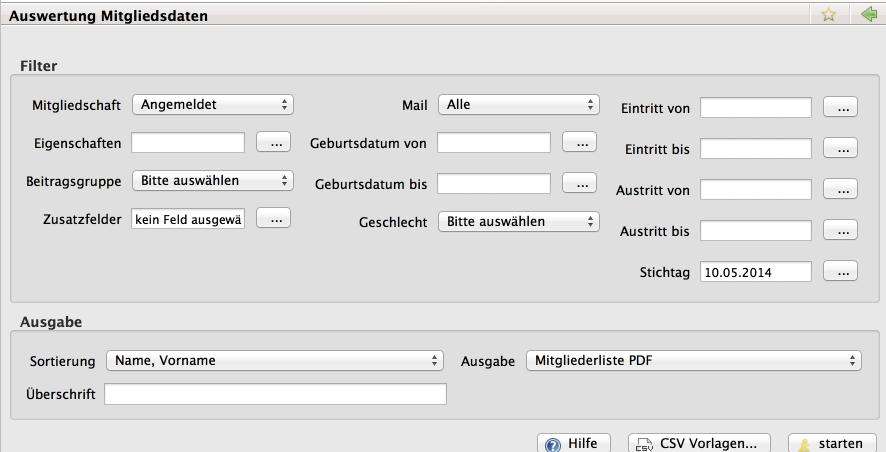
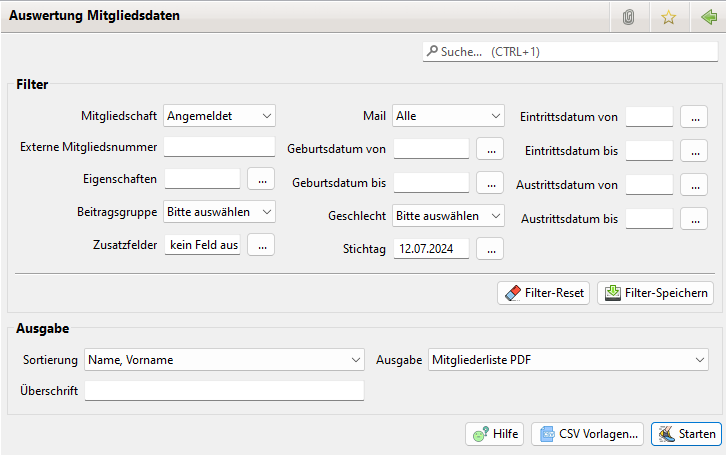
Bilder Update

Changed region(s): [[0.0, 0.0, 1.0, 0.9292], [0.6061, 0.8982, 1.0, 1.0]]

diff --git a/allgemeine-funktionen/mitglieder.md b/allgemeine-funktionen/mitglieder.md
@@ -26,15 +26,19 @@ Die Filterkriterien können für eine spätere Verwendung in einem [Suchprofil](
 
 ### Filterung nach Eigenschaften
 
-Es können eine oder mehrere Eigenschaften ausgewählt werden \(STRG-Taste beim Mausklick gedrückt halten\). Die Eigenschaften sind "und-verknüpft". D. h. es werden die Mitglieder angezeigt, die alle Eigenschaften haben.
+Es können eine oder mehrere Eigenschaften ausgewählt werden \(STRG-Taste beim Mausklick gedrückt halten\).
 
-![](../assets/mitgliedsucheeigenschaften13.jpg)
+Folgende Eigenschaften-verknüpfungen sind möglich:
+* "und": D.h. es werden nur die Mitglieder angezeigt, die alle Eigenschaften haben.
+* "oder": D.h. es werden die Mitglieder angezeigt, die mindestens eine der ausgewählten Eigenschaften haben.
+
+![](../assets/mitgliedsucheeigenschaften13.png)
 
 ### Filterung nach Zusatzfeldern
 
 Soll nach Zusatzfelder gefiltert werden, kommt es auf den Datentyp des jeweiligen Zusatzfeldes an. Bei einem Ja/Nein Feld kann nur nach Ja-Einträgen gefiltert werden. Bei einem Textfeld gelten zur Filterung die SQL-Regeln für einen Textvergleich: Hier können die Wildcards % \(0...n beliebige Zeichen\) und \_ \(genau 1 beliebiges Zeichen\) eingesetzt werden. Durch die Verwendung der Kombination \_% kann man nach allen nicht leeren Textfeldern filtern.
 
-![](../assets/mitgliedsuchezusatzfelder.jpg)
+![](../assets/mitgliedsuchezusatzfelder.png)
 
 ## Grunddaten des Mitglieds
 
@@ -175,7 +179,7 @@ Zur Nutzung ist in den [Einstellungen](administration/einstellungen.md) das ents
 
 ### Lehrgang beim Mitglied anlegen
 
-![](../assets/mitgliedlehrgang.jpg)
+![](../assets/mitgliedlehrgang.png)
 
 ## Lesefelder
 
@@ -198,6 +202,8 @@ Danach kann hier beim Erfassen von Arbeitsstunden im Feld Stunden auch ein negat
 Im Dialog Arbeitseinsätze prüfen können Sie sich jederzeit die Abrechnung aller Mitglieder anzeigen lassen. Es werden allerdings nur solche Mitglieder dort aufgeführt, die einer Beitragsgruppe angehören, in der zu leistende Arbeitsstunden eingetragen sind.
 
 ## Kontextmenu
+
+![](../assets/spendenbescheinigung_menu1.png)
 
 ### Bearbeiten
 
@@ -233,7 +239,15 @@ Zeigt eine QR-Code mit den Daten des Mitgliedes an.
 
 ### Eigenschaften
 
-Für alle markierten Mitglieder werden die angeklickten Eigenschaften gesetzt. Dabei stehen nur die Eigenschaftengruppen ohne Pflichteintrag oder ohne die Kennzeichnung "maximal 1" zur Verfügung,
+Für alle markierten Mitglieder werden die angeklickten Eigenschaften gesetzt. Dabei stehen nur die Eigenschaftengruppen ohne Pflichteintrag oder ohne die Kennzeichnung "maximal 1" zur Verfügung.
+
+### Arbeitseinsätze zuweisen
+
+Für alle markierten Mitglieder werden Arbeitseinsätze erzeugt.
+
+### Zusatzbeiträge zuweisen
+
+Für alle markierten Mitglieder werden Zusatzbeiträge erzeugt.
 
 ### Kontoauszug
 

diff --git a/allgemeine-funktionen/zusatzbetrage.md b/allgemeine-funktionen/zusatzbetrage.md
@@ -12,23 +12,26 @@ Als Wiederholungs-Intervall stehen zur Auswahl:
 
 Beim Buchungstext können die allgemeinen Variablen verwendet werden.
 
-Die Zusatzbeträge können sowohl bei jedem Mitglied auf dem entsprechenden Reiter angesehen werden, als auch in einer Übersicht für alle Mitglieder \(Unter Jameica/JVerein/Zusatzbeträge\). Dabei kann die Anzeige eingeschränkt werden auf
+Die Zusatzbeträge können sowohl bei jedem Mitglied auf dem entsprechenden Reiter angesehen werden, als auch in einer Übersicht für alle Mitglieder \(Unter Jameica/JVerein/Mitglieder/Zusatzbeträge\). Dabei kann die Anzeige eingeschränkt werden auf
 
 * alle Mitglieder
 * aktive
 * noch nicht ausgeführte Beträge
 * nach den verschieden Ausführungsterminen.
 
-Durch einen Doppelklick auf einen Zusatzbetrag wird der Bildschirm für die Bearbeitung geöffnet. Mit einem Rechtsklick öffnet sich ein Menü. Damit kann
+![](../assets/zusatzabbuchungenuebersicht-2.png)
+
+Durch einen Doppelklick auf einen Zusatzbetrag wird der Bildschirm für die Bearbeitung geöffnet. 
+
+![](../assets/mitgliedzusatzabbuchungneu.png)
+
+Mit einem Rechtsklick öffnet sich ein Menü. Damit kann
 
 * der nächste Fälligkeitstermin gesetzt werden
 * der vorherige Fälligkeitstermin gesetzt werden
-* das Ausführungsdatum gelöscht werden
-* der Zusatzbetrag werden
+* dar Zusatzbeitrag erneut ausgeführt werden
+* der Zusatzbetrag gelöscht werden
 
-![](../assets/zusatzabbuchungenuebersicht-2.jpg)
-
-![](../assets/mitgliedzusatzabbuchungneu.jpg)
 
 Bei der Abrechnung finden folgende Prüfungen statt:
 

diff --git a/allgemeine-funktionen/mail.md b/allgemeine-funktionen/mail.md
@@ -12,27 +12,29 @@ Die Konfiguration ist unter Einstellungen beschrieben.
 
 Für den Fall, dass immer ähnliche Mails versandt werden, kann die Tipparbeit durch Mailvorlagen minimiert werden.
 
-![](../assets/mailvorlagen.jpg)
+![](../assets/mailvorlagen.png)
 
 Durch einen Doppelklick auf den Betreff oder durch einen Klick auf neu öffnet sich das Bearbeitungsfenster.
 
-![](../assets/mailvorlage.jpg)
+![](../assets/mailvorlage.png)
 
 ## Mails
 
 In der Liste aller Mails wird der Betreff, das Bearbeitungs- und das Versanddatum angezeigt.
 
-![](../assets/mails-2.jpg)
+Über den Filter kann nach verschiedenen Kriterien gefiltert werden z.B. nach "Mail Empfänger" um zu sehen welche Mails an jemanden versendet wurden.
+
+![](../assets/mails-2.png)
 
 Durch einen Klick auf neu öffnet sich ein Mail-Vorlagen-Auswahlfenster:
 
-![](../assets/mailvorlagenauswahl.jpg)
+![](../assets/mailvorlagenauswahl.png)
 
 Entweder wird eine Mailvorlage ausgewählt oder es geht ohne Vorlage weiter.
 
 Ein Doppelklick auf eine Mail öffnet das Bearbeitungsfenster.
 
-![](../assets/mail.jpg)
+![](../assets/mail.png)
 
 Durch einen Klick auf Hinzufügen öffnet sich folgendes Auswahlfenster:
 

diff --git a/allgemeine-funktionen/administration/lehrgange.md b/allgemeine-funktionen/administration/lehrgange.md
@@ -6,11 +6,11 @@ Zur Nutzung der Lehrgänge ist die Option in den Einstellungen \(Administration 
 
 ### Übersicht über die Lehrgangsarten
 
-![](../../assets/lehrgangsarten.jpg)
+![](../../assets/lehrgangsarten.png)
 
 ### Lehrgangsart neu anlegen oder bearbeiten
 
-![](../../assets/lehrgangsart.jpg)
+![](../../assets/lehrgangsart.png)
 
 Die Bezeichnung des Lehrgangs muss ausgefüllt werden. Die restlichen Daten können leer gelassen werden. Diese Daten sind dann einzugeben, wenn beim Mitglied der Lehrgang angelegt wird.
 
@@ -22,7 +22,7 @@ Die Bezeichnung des Lehrgangs muss ausgefüllt werden. Die restlichen Daten kön
 
 Über den Button "Neuer Lehrgang" lässt sich ein neuer Lehrgang anlegen.
 
-![](../../assets/mitgliedlehrgang-2.jpg)
+![](../../assets/mitgliedlehrgang-2.png)
 
 ## Lehrgangsübersicht
 

diff --git a/allgemeine-funktionen/abrech/pre-notification.md b/allgemeine-funktionen/abrech/pre-notification.md
@@ -22,7 +22,12 @@ Mit einem rechts-Klick auf den entsprechenden Abrechnungsverlauf öffnet sich ei
 
 ## Pre-Notification schriftlich und per E-Mail
 
-Bevor Pre-Notification erstellt werden können muss zunächst muss ein [Formulare](../administration/formulare.md) dafür angelegt werden.![](../../assets/sepa_pre-notification_e-mail_erstellung.png)In diesem Fenster kann die Pre-Notification erstellt werden, und zwar auf der Karte Mail + PDF .
+Bevor Pre-Notification erstellt werden können muss zunächst muss ein [Formulare](../administration/formulare.md) dafür angelegt werden.
+
+In diesem Fenster kann die Pre-Notification erstellt werden, und zwar auf der Karte Mail + PDF .
+
+![](../../assets/sepa_pre-notification_e-mail_erstellung.png)
+
 
 ### Schriftliche Pre-Notification an alle Mitglieder
 

diff --git a/allgemeine-funktionen/buchf/splittbuchungen.md b/allgemeine-funktionen/buchf/splittbuchungen.md
@@ -24,7 +24,13 @@ Es erscheint dann:
 
 Die angeklickte Buchung erscheint in der ersten Zeile. In der zweiten Zeile erscheint die Gegenbuchung mit umgekehrtem Vorzeichen beim Betrag.
 
-Jetzt können über den "Neu"-Knopf die Splitbuchungen eingegeben werden:![](../../assets/splitbuchung03.png)![](../../assets/splitbuchung04.png)Die Splitbuchungen können nur gespeichert werden, wenn
+Jetzt können über den "Neu"-Knopf die Splitbuchungen eingegeben werden:
+
+![](../../assets/splitbuchung03.png)
+
+![](../../assets/splitbuchung04.png)
+
+Die Splitbuchungen können nur gespeichert werden, wenn
 
 * Haupt- und Gegenbuchung den gleichen Betrag haben, unabhängig vom Vorzeichen.
 * Die Summe der Splitbuchungen muss identisch mit dem Betrag der Hauptbuchung übereinstimmen.

diff --git a/allgemeine-funktionen/administration/lesefelder.md b/allgemeine-funktionen/administration/lesefelder.md
@@ -10,7 +10,9 @@ Jedes Skript muss als Rückgabe-Wert einen String zurückliefern.
 
 ## Lesefelder nutzen
 
-Zunächst muss die Lesefelder-Funktion aktiviert werden. Administration \| Einstellungen \| Anzeige \| Lesefelder anzeigen.![](../../assets/lesefelder-definitionen.png)
+Zunächst muss die Lesefelder-Funktion aktiviert werden. Administration \| Einstellungen \| Anzeige \| Lesefelder anzeigen.
+
+![](../../assets/lesefelder-definitionen.png)
 
 Beim nächsten Start von Jameica erscheint unter Administration die neue Option Lesefelder. Außerdem wird sofort auf der Mitglieder-Details-Seite ein neuer Tab Lesefelder angezeigt. Über den Bearbeiten-Knopf erhält man die Möglichkeit neue Lesefelder anzulegen und vorhandene zu editieren bzw. zu löschen.
 

diff --git a/allgemeine-funktionen/buchf/jahresabschluss.md b/allgemeine-funktionen/buchf/jahresabschluss.md
@@ -2,7 +2,7 @@
 
 Zunächst wird eine Liste der bereits getätigten Jahresabschlüsse angezeigt:
 
-![](../../assets/jahresabschluesse.jpg)
+![](../../assets/jahresabschluesse.png)
 
 In der Liste der Jahresabschlüsse kann mit einem Linksklick auf einen Abschluss ein Kontext-Menü geöffnet werden. Hiermit wird die Löschung eines Jahresabschlusses erledigt.
 
@@ -16,5 +16,5 @@ Es kann jeweils nur der neuste Jahresabschluss gelöscht werden.
 
 Durch eine Klick auf neu kann ein neuer Jahresabschluss vorgenommen werden:
 
-![](../../assets/jahresabschluss.jpg)
+![](../../assets/jahresabschluss.png)
 

diff --git a/allgemeine-funktionen/administration/beitragsgruppen.md b/allgemeine-funktionen/administration/beitragsgruppen.md
@@ -2,7 +2,7 @@
 
 Mit Neu kann eine neue Beitragsgruppe eingerichtet werden.
 
-![](https://github.com/jverein/jverein-handbuch/tree/7a7b5a645186b65a634bbe865664632876fb43ca/assets/Beitragsgruppenübersicht.PNG)
+![](../../assets/Beitragsgruppenuebersicht.png)
 
 Durch einen Doppelklick wird die Bearbeitung einer Beitragsgruppe eingeleitet.
 

diff --git a/allgemeine-funktionen/auswertungen/statistik.md b/allgemeine-funktionen/auswertungen/statistik.md
@@ -12,7 +12,7 @@ Für die Erstellung einer Statistik gibt es generell drei Möglichkeiten:
 
 Für die Statistik ist ein Stichtag vorzugeben. Standardmässig wird der 31.12. des aktuellen Jahres vorgegeben.
 
-![](../../assets/statistik.jpg)
+![](../../assets/statistik.png)
 
 ### Altersgruppen
 

diff --git a/allgemeine-funktionen/auswertungen/auswertung-kursteilnehmer.md b/allgemeine-funktionen/auswertungen/auswertung-kursteilnehmer.md
@@ -2,5 +2,5 @@
 
 Die Kursteilnehmer können nach Abbuchungsdatum selektiert werden. Die Ausgabe erfolgt im PDF-Format.
 
-![Auswertung Kursteilnehme](../..//assets/Auswertungkursteilnehmer.jpg)
+![Auswertung Kursteilnehme](../..//assets/Auswertungkursteilnehmer.png)
 

diff --git a/allgemeine-funktionen/wiedervorlage.md b/allgemeine-funktionen/wiedervorlage.md
@@ -2,7 +2,7 @@
 
 Die Wiedervorlagetermine aller Mitglieder können hier angezeigt und als erledigt gekennzeichnet werden.
 
-![](../assets/wiedervorlage.jpg)
+![](../assets/wiedervorlage.png)
 
 Die Wiedervorlagetermine werden auch im Jameica-Kalender angezeigt.
 
